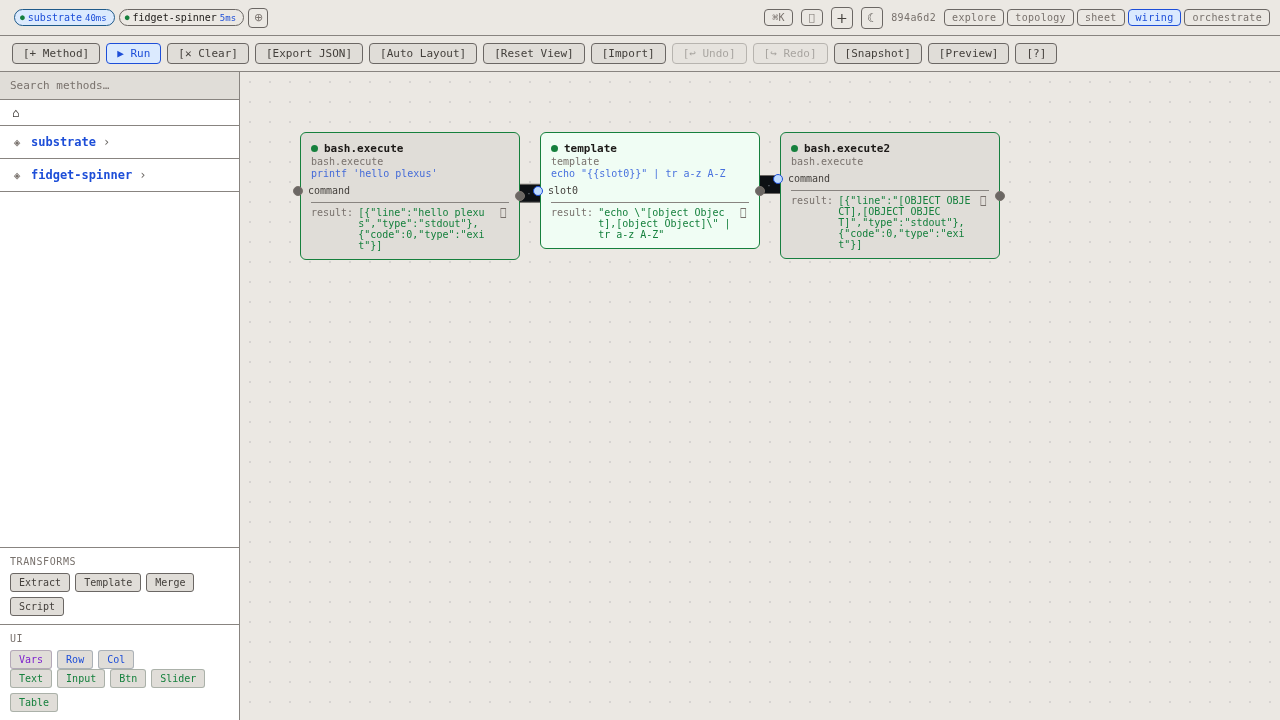
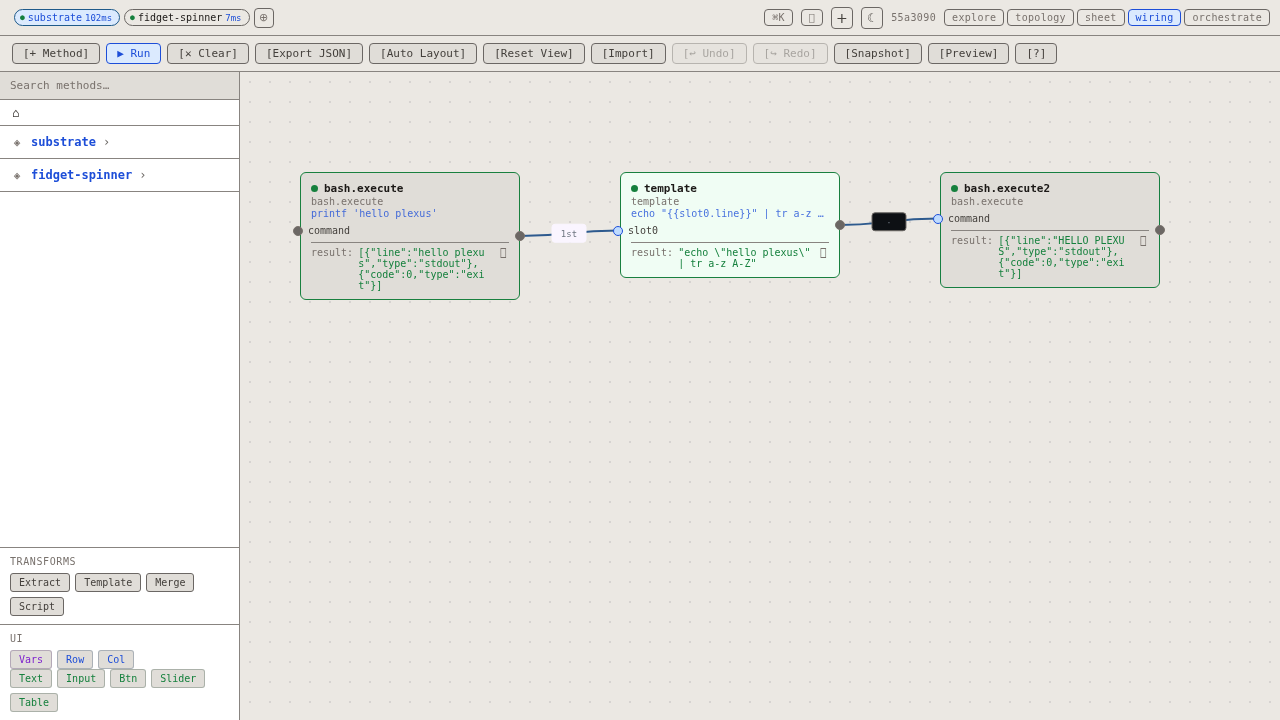
feat(wiring): template dot-notation field access ({{slot0.line}}), fix detail width

Changed region(s): [[0.4062, 0.1833, 0.9062, 0.3972], [0.2188, 0.1833, 0.4062, 0.3972], [0.0625, 0.0, 0.2188, 0.0306]]

diff --git a/tests/screenshots.spec.ts b/tests/screenshots.spec.ts
@@ -182,7 +182,7 @@ test('04 — wiring: bash → mustache template → bash', async ({ page }) => {
   }, { timeout: 5_000 })
 
   // Inject edges, params, and mustache template directly into the wiring state.
-  // Pipeline: bash "printf 'hello plexus'" → template → bash (runs the rendered command)
+  // Pipeline: bash "printf hello" → template(mustache) → bash runs rendered cmd
   await page.evaluate(() => {
     const raw = localStorage.getItem('plexus-wiring-v1')!
     const state = JSON.parse(raw)
@@ -192,21 +192,29 @@ test('04 — wiring: bash → mustache template → bash', async ({ page }) => {
     const bashProps = n1?.method?.method?.params?.properties ?? {}
     const bashParam = Object.keys(bashProps)[0] ?? 'command'
 
-    // n1: run a simple command to produce input text
+    // n1: run a simple command (printf = no trailing newline)
     n1.params = { [bashParam]: "printf 'hello plexus'" }
 
-    // n2: mustache template — wraps the input in an uppercase bash command
-    n2.transform.template = 'echo "{{slot0}}" | tr a-z A-Z'
+    // n2: mustache template — accesses slot0.line (first stdout line from n1)
+    // {{slot0.line}} resolves because we use routing:'first' on n1→n2
+    n2.transform.template = 'echo "{{slot0.line}}" | tr a-z A-Z'
     n2.transform.inputNames = ['slot0']
 
-    // n3: command is wired from n2's rendered output
+    // n3: command driven entirely by wired input from n2
     n3.params = {}
 
-    // Wire n1 → n2(slot0) → n3(bash command param)
+    // Space nodes far apart so the bezier curves are visible
+    n1.pos = { x: 60,  y: 100 }
+    n2.pos = { x: 380, y: 100 }
+    n3.pos = { x: 700, y: 100 }
+
+    // Wire n1 → n2(slot0): routing 'first' extracts the first stream item
+    // ({"line":"hello plexus","type":"stdout"}) so {{slot0.line}} resolves
+    // Wire n2 → n3(command): routing 'auto' passes the rendered string directly
     state.edges = [
       {
         id: 'e1', fromNodeId: n1.id, toNodeId: n2.id, toParam: 'slot0',
-        routing: 'auto',
+        routing: 'first',
         routeConfig: { separator: '\n', predicate: '', reducer: '', initial: '', typeFilter: [] },
       },
       {
@@ -233,6 +241,16 @@ test('04 — wiring: bash → mustache template → bash', async ({ page }) => {
 
   // Wait for all 3 nodes to complete (last node result appears last)
   await expect(page.locator('.node-result').nth(2)).toBeVisible({ timeout: 20_000 })
+
+  // Log the execution results for debugging
+  const nodeResults = await page.evaluate(() =>
+    Array.from(document.querySelectorAll('.wire-node')).map(node => ({
+      id: (node as HTMLElement).dataset.id,
+      status: [...node.classList].find(c => c.startsWith('status-'))?.replace('status-', ''),
+      result: node.querySelector('.result-value')?.textContent?.trim(),
+    }))
+  )
+  console.log('Wiring execution results:', JSON.stringify(nodeResults, null, 2))
 
   // Hide minimap overlay before capture
   await page.addStyleTag({ content: '.wiring-minimap { display: none !important; }' })

diff --git a/src/features/method-wiring/MethodWiringCanvas.vue b/src/features/method-wiring/MethodWiringCanvas.vue
@@ -1999,8 +1999,15 @@ function executeTransform(node: WireNode, inputs: Map<string, unknown>, nodeResu
           if (n) byTitle.set(nodeTitle(n), result)
         }
       }
-      return node.transform.template.replace(/\{\{(\w+)\}\}/g,
-        (_, k: string) => String(inputs.has(k) ? inputs.get(k) : (byTitle.get(k) ?? '')))
+      // Support {{name}} and {{name.field}} / {{name[0].field}} dot/bracket notation
+      return node.transform.template.replace(/\{\{([\w.[\]'"]+)\}\}/g,
+        (_, k: string) => {
+          const dotIdx = k.search(/[.[]/)
+          const base = dotIdx === -1 ? k : k.slice(0, dotIdx)
+          const rest = dotIdx === -1 ? '' : k.slice(dotIdx).replace(/^\./, '')
+          const baseVal = inputs.has(base) ? inputs.get(base) : (byTitle.get(base) ?? '')
+          return String(rest ? (getPath(baseVal, rest) ?? '') : (baseVal ?? ''))
+        })
     }
     case 'merge':    return Object.assign({}, ...node.transform.inputNames
                        .map(n => (inputs.get(n) ?? {}) as object))

diff --git a/src/components/PluginDetail.vue b/src/components/PluginDetail.vue
@@ -148,6 +148,7 @@ const path = computed(() => props.path ?? [])
 <style scoped>
 .detail {
   flex: 1;
+  min-width: 0;
   overflow-y: auto;
   background: var(--bg-0);
 }
